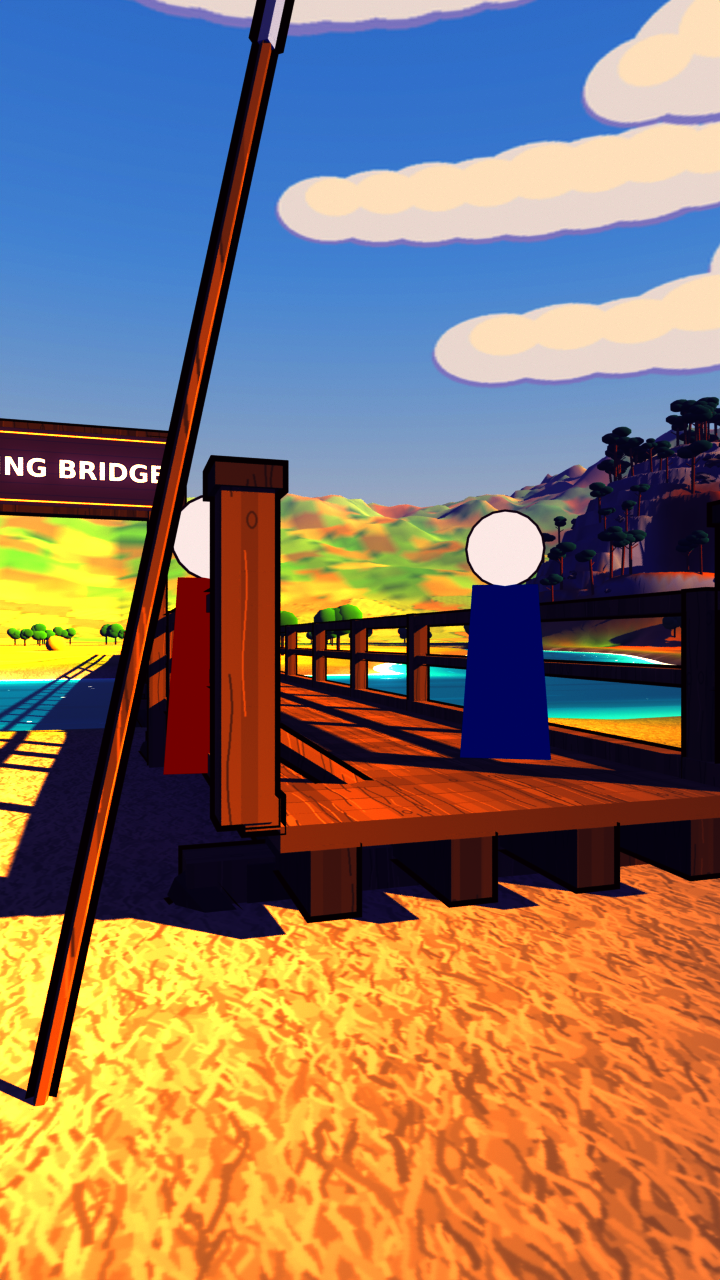
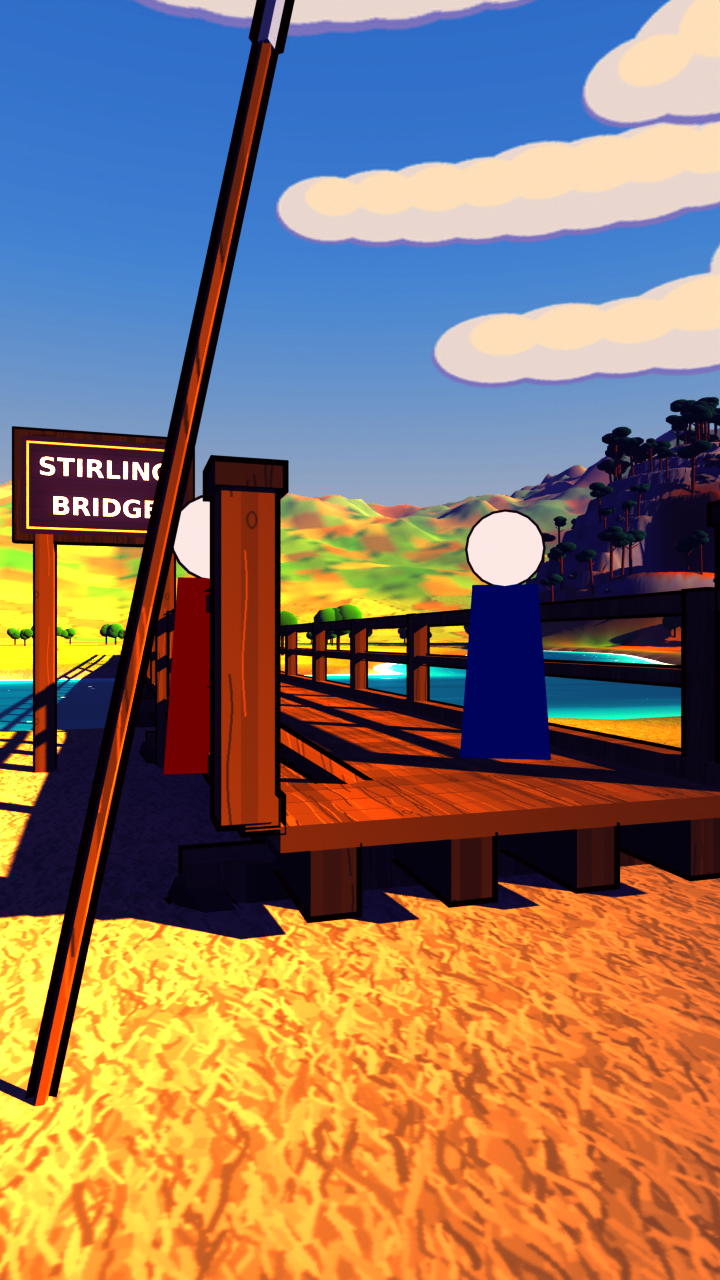
film21: set3d21 §I tools: build_world, cam_path, POSES, signs, shafts, lantern, saltires, rim, valley VIVID
Claude-Session: https://claude.ai/code/session_017iwyCsej5sN2YnHCfQQb4Y

Changed region(s): [[0.0, 0.3125, 0.275, 0.625], [0.1833, 0.4375, 0.2444, 0.5625]]

diff --git a/film/v3/set3d21/stirling.py b/film/v3/set3d21/stirling.py
@@ -1617,7 +1617,7 @@ def signs_build(A, pr):
     """pr['signs'] = subset of ('stirling', 'treasury', 'english'). The only text in the set."""
     sg = pr.get('signs') or []
     if 'stirling' in sg:        # a gantry over the south end of the bridge, facing the camp
-        sx_, sy_ = -2.9, -27.5; make_sign('stirling', (sx_, sy_, float(ground(sx_, sy_)) + 3.6), face_yaw((sx_, sy_), (-3.0, -45.0)), 3.2, 0.9, ['STIRLING BRIDGE'], posts=1.0)
+        sx_, sy_ = -2.15, -27.5; make_sign('stirling2', (sx_, sy_, float(ground(sx_, sy_)) + 3.4), face_yaw((sx_, sy_), (-2.5, -45.0)), 1.9, 1.15, ['STIRLING', 'BRIDGE'], posts=1.0)
     if 'treasury' in sg and A.get('camp', {}).get('table'):      # painted on the front of Cressingham's coin chest
         tx, ty, tz = A['camp']['table']; make_sign('treasury', (tx - 0.92, ty - 0.05 - 0.322, tz + 1.2), 0.0, 0.8, 0.34, ["KING'S", 'TREASURY'], slab=False)
     if 'english' in sg:         # the camp entrance board by the road

diff --git a/film/v3/set3d21/API.md b/film/v3/set3d21/API.md
@@ -86,7 +86,7 @@ Camera, look-at, foreground prop, stand points with their head centre in screen 
 | `valley_loop` | valley | (-72.0, -133.0, z 229.0) -> (12.0, 36.0, 0.0) | 21 | - | - |  | 108 s render, 33 s build |
 | `valley_river` | valley | (38.0, -24.0, z = ground + 2.10) -> (105.0, 28.0, 4.0) | 22 | reeds 2.2 m, reeds 2.0 m, rock 2.4 m | `e1` (130, 762), `e2` (601, 783) | push 7 %/s + slide | 91 s render, 35 s build |
 | `camp_wide` | camp | (-78.0, -96.0, z 13.0) -> (12.0, -52.0, 2.0) | 22 | rope 1.8 m, pole 2.2 m | `k1` (203, 733), `k2` (518, 709) | slide 50 px/s + push | 82 s render, 3 s build |
-| `camp_table` | camp | (-13.0, -30.0, z = ground + 1.30) -> (-13.0, -26.5, 1.7) | 22 | barrel 2.4 m | `cress` (360, 506) | push 8 %/s; hooks: set_scale_tip(A, deg), set_chest_lid(A, deg) | 174 s render, 3 s build |
+| `camp_table` | camp | (-13.0, -30.0, z = ground + 1.30) -> (-13.0, -26.5, 1.7) | 22 | barrel 2.4 m | `cress` (365, 540) | push 8 %/s; hooks: set_scale_tip(A, deg), set_chest_lid(A, deg) | 174 s render, 3 s build |
 | `camp_bank` | camp | (-95.0, -15.0, z = ground + 2.00) -> (-2.3, 22.5, -16.5) | 26 | banner pole with its banner at the right edge, a barrel, reeds and tent pegs | `cress` (191, 585), `surrey` (640, 556), `e0` (56, 572), `e1` (335, 522), `e2` (441, 502), `e3` (541, 516), `e4` (612, 503) |  | 87 s render, 3 s build |
 | `riverbank` | riverbank | (-27.0, 54.0, z = ground + 1.80) -> (-28.0, 22.0, -3.5) | 22 | reeds 1.7 m, gorse 2.2 m | `e1` (81, 574), `e2` (215, 559), `e3` (129, 540), `e4` (42, 520) | slide 40 px/s + push; the channel is on the right: splash() points in PRESETS["riverbank"]["splashes"] | 78 s render, 3 s build |
 | `river_low` | riverbank | (-26.0, 46.0, z = ground + 0.90) -> (-44.0, 44.0, 0.9) | 22 | reeds 1.4 m, reeds 1.6 m, rock 1.8 m | - | quick push; splash() crowns at pr["splashes"] | 73 s render, 3 s build |
@@ -115,3 +115,32 @@ Terrain tables load in 0.2 s (first run builds them in about 15 s); scene build 
 - Placeholder heads are flat cards turned to the camera at render start; if the camera moves a lot during a drift, call `stage_placeholders(A)` again or use your cast sprites (billboards).
 - No glossy anywhere; the water glitter is emission only. Do not add a world volume or fog: QA-art rejects haze.
 - 4 cores: use `threads_mode FIXED, threads 4` (the render function does).
+
+## 9. Final grade: the VIVID stage (client rule QA_TEAM §G / §I 3)
+
+`grade()` ends with a per-preset VIVID stage `(gamma, sat)` from the dict `K.VIVID` (`STATE['vivid']` overrides it, which is how `cam_path` eases it): frame saturation >= 0.47-0.50 and mean luma 85-110 as `film/qa_stats.py` measures them (mean of (max-min)/max and mean grey at 90x160); the vivid share (pixels with (max-min)/max > 0.5) is >= 45 %. Current valley entries: `valley_wide` (1.11, 1.83), `valley_loop` (1.07, 1.71), `valley_river` (2.28, 1.18) (measured on 24-sample finals at 0.54 / 54 %, 0.54 / 56 %, 0.55 / 51 %). River_low is capped at gamma 1.9 (its tile stays bright). Do not remove or bypass VIVID; if you change a preset's light, re-measure and retune its entry.
+
+## 10. Connected world and camera travel (many long takes, few cuts)
+
+```python
+A = K.build_world(['valley_wide', 'camp_wide', 'hill_low'], fg=False)      # ONE scene; presets = only the 2-3 a segment needs
+A['cams']['camp_wide']  # (loc, look, lens)      A['marks']['hill_low']  # {mark: (x, y, z, 0, who)} stand points of that preset
+for g in range(0, 96):
+    r = K.cam_path(None, [(0, 'valley_wide'), (36, 'camp_wide'), (66, (30, 10, 36), (120, 110, 10), 22.0), (96, 'hill_low')], g)    # moves the scene camera, eases STATE['vivid']
+    K.set_flow(g / 30.0); K.set_smoke(g / 30.0); K.set_flutter(g / 30.0); K.render(path, 'final')
+```
+- `build_world(presets, light='MORNING', fg=True, hide=(), over=None, placeholders=False)`: the whole valley (terrain, river, loop, bridge, camp, Abbey Craig with crag, castle rock, farms) plus the near-camera dressing of every listed preset: vegetation (grass, heather, reeds), the preset's foreground props, camp dressing and money-table extras, the Scots line (+ spear wall at the neck), troops (max count per `where` over the presets), signs, light shafts, lantern, splashes (named `<preset><i>`), bridge knights. `fg=False` builds no foreground props at all (use it for pass-through presets); `fg=[names]` keeps them only for those presets; `hide=[names]` skips them for those. Placeholder cards are not staged unless `placeholders=True`; the stand points are in `A['marks'][preset]`. Light: one world light (`WORLD_OVR`: sun_k 1.8, foam, glitter, haze 0.2); `over=` overrides single numbers. Build 33 s for 1-3 presets (the valley farms dominate), +3-5 s per extra ground preset; a draft frame about 10 s, a final frame 85-130 s. The tent/pavilion `clear` zones of the listed presets are merged, so the camera poses are free of tents.
+- `cam_path(cam, keys, g, clearance=1.2)`: `keys` = `[(frame, loc, look, lens), ...]` or `(frame, 'preset_or_pose_name')`, mixed. Position is a Catmull-Rom curve through the keys (no stops in between); look target and lens follow the same curve; ease-in on the first segment, ease-out on the last. `STATE['vivid']` is eased (log gamma, sat) between the VIVID entries of the named presets (nearest preset for a free key). The lens is kept `clearance` m above the terrain and the water (soft). `cam=None` = the scene camera. Returns `dict(loc, look, lens, vivid)`. Route the path ABOVE tents and pavilions (add a free waypoint, as `t_path.py` does): only the terrain is checked.
+- `K.POSES` (named join poses, usable as cam_path keys): `P_A` (290, 205, 170) -> (120, 110, 10) 22 mm (high over Abbey Craig looking down at the camp and the bridge), `P_CAMP` = the `camp_wide` camera, `P_BANK` = the `camp_bank` camera, `P_NECK` (-2.0, 50.0, 4.6) -> (0.0, 22.0, 1.8) 22 mm (the bridge mouth from the meadow), `P_TOP` (-10, -40, 120) -> (0, 80, 0) 22 mm (high over the bridge, the loop beyond). `styleboard/poses.jpg` shows one draft of each (`python3 poses_sheet.py`).
+- `python3 t_path.py` flies valley_wide -> camp_wide -> a waypoint -> hill_low in 12 drafts -> `styleboard/path_strip.jpg` and prints the step per frame and the vivid values.
+
+## 11. Signs (the only text in the set), light shafts, lantern
+
+- Signs: painted wooden boards, cream capitals with a dark outline and a gold border on dark planks (DejaVu Sans Bold, supersampled), on UV quads with the same lit material model. Preset key `signs=[...]`: `'stirling'` = "STIRLING BRIDGE" on two posts just west of the bridge's south end (bridge_end_south, bridge_high, camp_bank); `'treasury'` = "KING'S TREASURY" painted on the front of Cressingham's coin chest (camp_table; 2 lines, letters about 35 px at 3 m); `'english'` = "ENGLISH CAMP" on a board at the camp entrance (camp_wide, `sign_at` (-56, -84), letters about 0.9 m). `K.make_sign(name, center, yaw, w, h, lines, posts=0)` makes another; `K.face_yaw(frm, to)` turns a sign toward a camera. Textures are cached in `tex/sign_*`.
+- Light shafts: soft additive strips along the sun direction (transparent/emission mix with a gradient and noise, no world volume, no shadow). Preset key `shafts='pines'` (hill_over, hill_eye, hill_low: through the Scots pines on Abbey Craig) or `'smoke'` (camp_wide, camp_table, camp_bank: through the campfire smoke). Strength: `over=dict(shaft_k=0.6)`. They are separate objects named `shaft_*`; hide them with `o.hide_render = True`.
+- Lantern: `lantern=True` (camp_table) hangs a lantern from the money-table canopy: an emissive glow (`glow_flame`, blooms in `grade()`) plus a warm point light (140 W) on the table. Objects `lantern`, `lantern_glow`, light `lantern`.
+
+## 12. Signature colour and the rim light
+
+- Blue saltire banners (deep blue `t_saltire`, white diagonal cross; banner shape `'saltire'`) fly on poles along the Scots line on Abbey Craig (4 along `scots_slope_line`) and at both ends of the spear wall at the bridge's north end. They are live banners (`set_flutter`). The English stay crimson and gold.
+- Rim light for the cast cards. An emission card cannot take light from the scene, so the rim is the puppet pose key: `rim="#rrggbb"` (v2/puppet/API.md, `rim` row): a thin light halo behind arms, hands, legs and feet where they leave the body silhouette (never across the torso or head). Default for film 21: `K.RIM_GOLD = '#ffc766'` (warm gold, the sun side is the south-east, so a gold halo reads as sun rim). Put every cast pose through `K.with_rim(pose)` (or set `rim='#ffc766'` yourself) before drawing; use the cool shade tint from the scene (`tint` key) on the opposite side for the warm/cool split.
